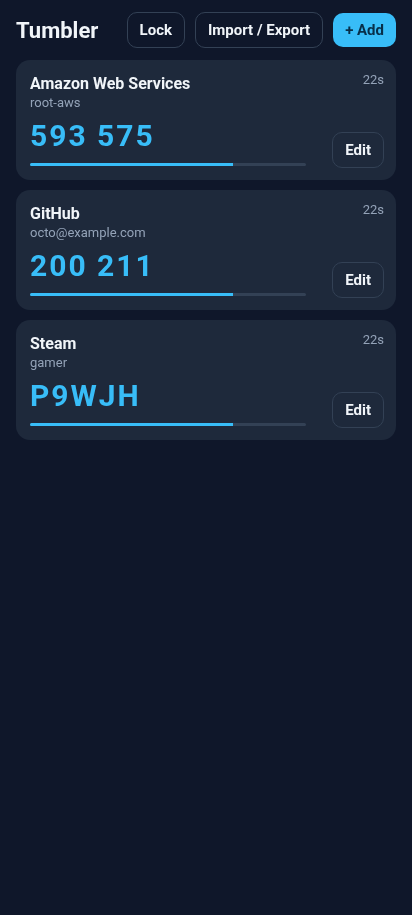
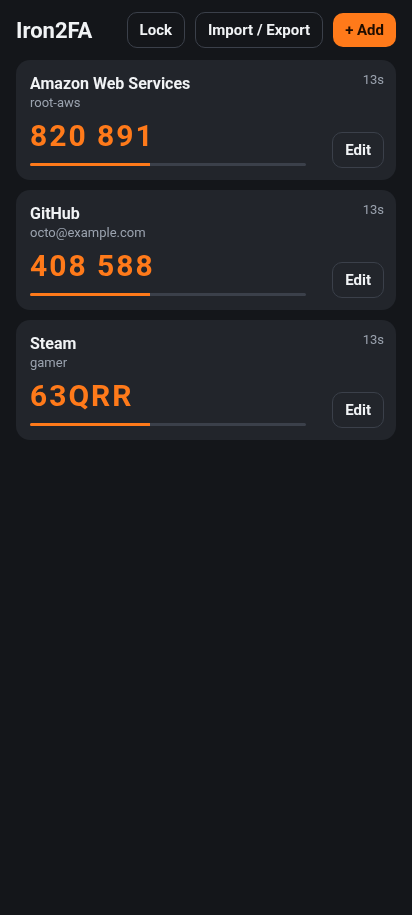
Rename to Iron2FA (com.irondeveloper.iron2fa); steel and forge-orange look; fix smoke test focus

diff --git a/desktop/main.js b/desktop/main.js
@@ -5,7 +5,7 @@
  *
  * The bundle is served from a private app:// scheme rather than file://, so
  * its absolute asset paths resolve and localStorage (where the encrypted vault
- * lives, under ~/.config/Tumbler) has a stable origin. Every other request is
+ * lives, under ~/.config/Iron2FA) has a stable origin. Every other request is
  * refused: the app needs no network, so it gets none.
  */
 const { app, BrowserWindow, net, protocol, session, shell } = require('electron');
@@ -13,7 +13,7 @@ const path = require('node:path');
 const { pathToFileURL } = require('node:url');
 
 const DIST = path.join(__dirname, 'dist');
-const ORIGIN = 'app://tumbler';
+const ORIGIN = 'app://iron2fa';
 
 protocol.registerSchemesAsPrivileged([
   { scheme: 'app', privileges: { standard: true, secure: true, supportFetchAPI: true } },
@@ -34,7 +34,7 @@ if (!app.requestSingleInstanceLock()) {
     protocol.handle('app', (request) => {
       const url = new URL(request.url);
       const file = path.normalize(path.join(DIST, decodeURIComponent(url.pathname)));
-      if (url.host !== 'tumbler' || (file !== DIST && !file.startsWith(DIST + path.sep))) {
+      if (url.host !== 'iron2fa' || (file !== DIST && !file.startsWith(DIST + path.sep))) {
         return new Response('Not found', { status: 404 });
       }
       return net.fetch(pathToFileURL(file === DIST ? path.join(DIST, 'index.html') : file).toString());
@@ -54,9 +54,9 @@ if (!app.requestSingleInstanceLock()) {
       height: 760,
       minWidth: 340,
       minHeight: 480,
-      backgroundColor: '#0f172a',
+      backgroundColor: '#14161a',
       autoHideMenuBar: true,
-      title: 'Tumbler',
+      title: 'Iron2FA',
       icon: path.join(__dirname, 'icon.png'),
       webPreferences: { contextIsolation: true, nodeIntegration: false, sandbox: true },
     });

diff --git a/src/ui/Transfer.tsx b/src/ui/Transfer.tsx
@@ -66,7 +66,7 @@ export function Transfer(props: {
     try {
       await new Promise((resolve) => setTimeout(resolve, 50));
       const text = exportPassword ? await exportEncrypted(props.accounts, exportPassword) : exportPlain(props.accounts);
-      await saveTextFile(`Tumbler_export_${new Date().toISOString().slice(0, 10)}.json`, text);
+      await saveTextFile(`Iron2FA_export_${new Date().toISOString().slice(0, 10)}.json`, text);
       setExportPassword('');
     } catch (e) {
       setError(message(e));
@@ -86,7 +86,7 @@ export function Transfer(props: {
         <Text style={s.section}>Import</Text>
         <Text style={s.body}>
           In Proton Authenticator choose Settings → Export, then pick that file here. Exports with and without a
-          password both work, and so do exports made by Tumbler. Accounts you already have are skipped.
+          password both work, and so do exports made by Iron2FA. Accounts you already have are skipped.
         </Text>
         {pending === null ? (
           <Button title="Choose export file" disabled={!!busy} onPress={pick} />
@@ -104,7 +104,7 @@ export function Transfer(props: {
         <Text style={[s.section, { marginTop: 32 }]}>Export</Text>
         <Text style={s.body}>
           Writes every account to one file in Proton Authenticator's format — use it as a backup, or to copy your
-          accounts to Tumbler on another device.
+          accounts to Iron2FA on another device.
         </Text>
         <Field label="Password (recommended)" value={exportPassword} onChangeText={setExportPassword} secureTextEntry
           hint="Without a password the file holds your secrets in plain text: anyone who reads it can generate your codes." />

diff --git a/plugins/withReleaseSigning.js b/plugins/withReleaseSigning.js
@@ -10,13 +10,13 @@
  *
  * A keystore is configured either by `android/keystore.properties`:
  *
- *   storeFile=/absolute/path/to/tumbler-release.keystore
+ *   storeFile=/absolute/path/to/iron2fa-release.keystore
  *   storePassword=...
- *   keyAlias=tumbler
+ *   keyAlias=iron2fa
  *   keyPassword=...
  *
- * or, for CI, by the env vars TUMBLER_STORE_FILE, TUMBLER_STORE_PASSWORD,
- * TUMBLER_KEY_ALIAS and TUMBLER_KEY_PASSWORD.
+ * or, for CI, by the env vars IRON2FA_STORE_FILE, IRON2FA_STORE_PASSWORD,
+ * IRON2FA_KEY_ALIAS and IRON2FA_KEY_PASSWORD.
  */
 const { withAppBuildGradle } = require('expo/config-plugins');
 
@@ -34,10 +34,10 @@ const SIGNING_CONFIG = `    signingConfigs {
     // Resolve the release keystore from android/keystore.properties, falling back
     // to environment variables so CI can sign without writing the file to disk.
     def keystorePropertiesFile = rootProject.file("keystore.properties")
-    def releaseStoreFile = System.getenv("TUMBLER_STORE_FILE")
-    def releaseStorePassword = System.getenv("TUMBLER_STORE_PASSWORD")
-    def releaseKeyAlias = System.getenv("TUMBLER_KEY_ALIAS")
-    def releaseKeyPassword = System.getenv("TUMBLER_KEY_PASSWORD")
+    def releaseStoreFile = System.getenv("IRON2FA_STORE_FILE")
+    def releaseStorePassword = System.getenv("IRON2FA_STORE_PASSWORD")
+    def releaseKeyAlias = System.getenv("IRON2FA_KEY_ALIAS")
+    def releaseKeyPassword = System.getenv("IRON2FA_KEY_PASSWORD")
     if (keystorePropertiesFile.exists()) {
         def keystoreProperties = new Properties()
         keystorePropertiesFile.withInputStream { keystoreProperties.load(it) }

diff --git a/src/ui/widgets.tsx b/src/ui/widgets.tsx
@@ -2,15 +2,15 @@ import React from 'react';
 import { Modal, Pressable, StyleSheet, Text, TextInput, TextInputProps, View } from 'react-native';
 
 export const C = {
-  bg: '#0f172a',
-  card: '#1e293b',
-  line: '#334155',
-  text: '#f1f5f9',
-  dim: '#94a3b8',
-  accent: '#38bdf8',
-  onAccent: '#082f49',
+  bg: '#14161a',
+  card: '#22252b',
+  line: '#3b404a',
+  text: '#f1f3f5',
+  dim: '#9ba3af',
+  accent: '#ff7a1a',
+  onAccent: '#1f0d00',
   danger: '#f87171',
-  warn: '#fbbf24',
+  warn: '#f87171',
 };
 
 export function Button(props: {
@@ -141,7 +141,7 @@ export const s = StyleSheet.create({
   choice: { paddingHorizontal: 14, paddingVertical: 8, borderRadius: 10, borderWidth: 1, borderColor: C.line },
   choiceOn: { backgroundColor: C.accent, borderColor: C.accent },
   choiceText: { color: C.text, fontSize: 14, fontWeight: '600' },
-  backdrop: { flex: 1, backgroundColor: 'rgba(2,6,23,0.75)', alignItems: 'center', justifyContent: 'center', padding: 24 },
+  backdrop: { flex: 1, backgroundColor: 'rgba(0,0,0,0.7)', alignItems: 'center', justifyContent: 'center', padding: 24 },
   dialog: { backgroundColor: C.card, borderRadius: 14, padding: 20, width: '100%', maxWidth: 420 },
   dialogTitle: { color: C.text, fontSize: 18, fontWeight: '700', marginBottom: 8 },
   dialogText: { color: C.dim, fontSize: 15, lineHeight: 21, marginBottom: 20 },

diff --git a/src/vault.ts b/src/vault.ts
@@ -18,9 +18,9 @@ import { deriveKey, open, randomBytes, seal } from './core/crypto';
 import { Account } from './core/otp';
 import { exportPlain, importExport } from './core/proton';
 
-const BLOB_KEY = 'tumbler.vault.v1';
-const SECURE_KEY = 'tumbler.vaultkey.v1';
-const AAD = 'tumbler.vault.v1';
+const BLOB_KEY = 'iron2fa.vault.v1';
+const SECURE_KEY = 'iron2fa.vaultkey.v1';
+const AAD = 'iron2fa.vault.v1';
 
 export const usesPassphrase = Platform.OS === 'web';
 

diff --git a/App.tsx b/App.tsx
@@ -74,7 +74,7 @@ export default function App() {
   } else if (phase === 'unreadable') {
     content = (
       <View>
-        <Header title="Tumbler" />
+        <Header title="Iron2FA" />
         <Text style={s.error}>The saved accounts cannot be decrypted on this device.</Text>
         <Text style={s.body}>
           This happens when app data is restored without the key that encrypted it. The accounts cannot be recovered

diff --git a/src/ui/Unlock.tsx b/src/ui/Unlock.tsx
@@ -25,7 +25,7 @@ export function Unlock(props: { creating: boolean; onSubmit: (passphrase: string
 
   return (
     <View>
-      <Header title="Tumbler" />
+      <Header title="Iron2FA" />
       <Text style={s.body}>
         {props.creating
           ? 'Choose a passphrase. It encrypts your accounts on this computer and is asked for every time the app opens. It cannot be recovered, so keep an export somewhere safe.'

diff --git a/src/ui/List.tsx b/src/ui/List.tsx
@@ -84,7 +84,7 @@ export function List(props: {
   return (
     <View style={{ flex: 1 }}>
       <Header
-        title="Tumbler"
+        title="Iron2FA"
         right={
           <>
             {props.onLock ? <Button title="Lock" kind="plain" small onPress={props.onLock} /> : null}

diff --git a/android/app/src/main/java/com/irondeveloper/iron2fa/MainActivity.kt b/android/app/src/main/java/com/irondeveloper/iron2fa/MainActivity.kt
@@ -1,4 +1,4 @@
-package com.lbellows.tumbler
+package com.irondeveloper.iron2fa
 import expo.modules.splashscreen.SplashScreenManager
 
 import android.os.Build

diff --git a/android/app/src/main/java/com/irondeveloper/iron2fa/MainApplication.kt b/android/app/src/main/java/com/irondeveloper/iron2fa/MainApplication.kt
@@ -1,4 +1,4 @@
-package com.lbellows.tumbler
+package com.irondeveloper.iron2fa
 
 import android.app.Application
 import android.content.res.Configuration

diff --git a/README.md b/README.md
@@ -1,4 +1,4 @@
-# Tumbler
+# Iron2FA
 
 An offline two-factor authenticator (TOTP and Steam Guard) for Android, with a
 Linux desktop build of the same code. Written with Expo (TypeScript).
@@ -13,7 +13,7 @@ Linux desktop build of the same code. Written with Expo (TypeScript).
 ## Install
 
 Android: add the F-Droid repository at <https://lbellows.github.io/fdroid/>, or
-take an APK from [Releases](https://github.com/lbellows/tumbler/releases).
+take an APK from [Releases](https://github.com/lbellows/iron2fa/releases).
 
 Desktop (Linux, needs a system Electron — `electron42` on Arch/Artix):
 
@@ -23,12 +23,12 @@ npm run desktop:build     # web bundle into desktop/dist
 npm run desktop           # electron42 desktop
 ```
 
-The vault is kept in Electron's profile, `~/.config/Tumbler`. The window is
+The vault is kept in Electron's profile, `~/.config/Iron2FA`. The window is
 served from a private `app://` scheme and every other request is refused.
 
 ## Moving accounts
 
-In Proton Authenticator: Settings → Export. In Tumbler: Import / Export →
+In Proton Authenticator: Settings → Export. In Iron2FA: Import / Export →
 Choose export file. Accounts already present are skipped, so importing twice is
 harmless. Counter-based (HOTP) entries are not supported and are reported by
 name.

diff --git a/FDROID.md b/FDROID.md
@@ -1,4 +1,4 @@
-# Releasing Tumbler
+# Releasing Iron2FA
 
 A `v*` tag makes `.github/workflows/release.yml` build one signed, minified APK
 per ABI, check each is single-ABI, permission-free, signed and under 30 MB,
@@ -24,9 +24,9 @@ does everything except publish.
 
 | | |
 |---|---|
-| Keystore | `~/.android-signing/tumbler-release.keystore` (PKCS12) |
-| Password | `~/.android-signing/tumbler-release.password` |
-| Alias | `tumbler` |
+| Keystore | `~/.android-signing/iron2fa-release.keystore` (PKCS12) |
+| Password | `~/.android-signing/iron2fa-release.password` |
+| Alias | `iron2fa` |
 
 Neither file is in this repository. The repository secrets
 `ANDROID_KEYSTORE_BASE64`, `ANDROID_STORE_PASSWORD` and `ANDROID_KEY_PASSWORD`
